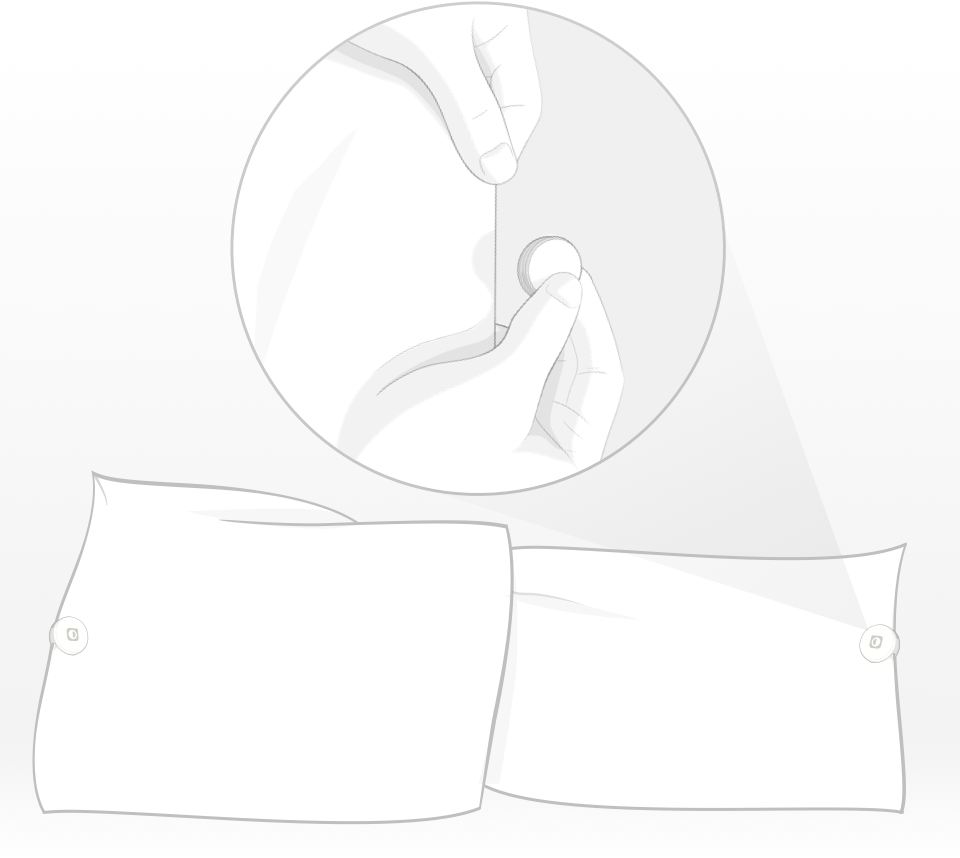
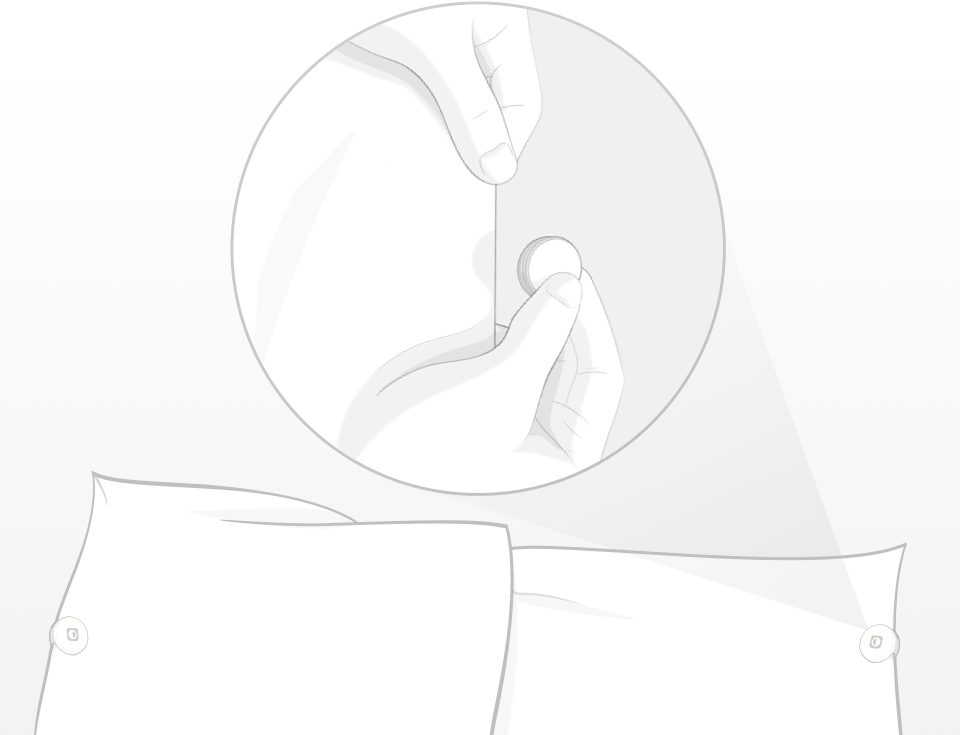
updated assets, no scroll on large screens.  no iphone 4s / 5 ifs

diff --git a/SleepModel/HEMPillSetupViewController.m b/SleepModel/HEMPillSetupViewController.m
@@ -30,7 +30,6 @@ typedef NS_ENUM(NSUInteger, HEMPillSetupRow) {
     HEMPillSetupRows = 3
 };
 
-static CGFloat const HEMPillSetupImageCellHeight = 398.0f;
 static CGFloat const HEMPillSetupTextHorzPadding = 20.0f;
 static CGFloat const HEMPillSetupLayoutMinLineSpacing = 8.0f;
 
@@ -42,6 +41,9 @@ static CGFloat const HEMPillSetupLayoutMinLineSpacing = 8.0f;
 
 @property (strong, nonatomic) NSAttributedString* attributedTitle;
 @property (strong, nonatomic) NSAttributedString* attributedDescription;
+@property (assign, nonatomic) CGFloat titleHeight;
+@property (assign, nonatomic) CGFloat descriptionHeight;
+@property (assign, nonatomic) CGFloat imageHeight;
 @property (assign, nonatomic, getter=isWaitingForLED) BOOL waitingForLED;
 
 @end
@@ -68,6 +70,36 @@ static CGFloat const HEMPillSetupLayoutMinLineSpacing = 8.0f;
     [containerLayer setShadowOffset:[shadow shadowOffset]];
     [containerLayer setShadowRadius:[shadow shadowBlurRadius]];
     [containerLayer setShadowOpacity:1.0f];
+}
+
+- (void)calculateHeights {
+    NSAttributedString* title = [self attributedTitle];
+    [self setTitleHeight:[self heightForAttributedText:title]];
+    
+    NSAttributedString* desc = [self attributedDecription];
+    [self setDescriptionHeight:[self heightForAttributedText:desc]];
+    
+    CGFloat contentHeight =
+        [self titleHeight]
+        + HEMPillSetupLayoutMinLineSpacing
+        + [self descriptionHeight]
+        + HEMPillSetupLayoutMinLineSpacing;
+    
+    UIImage* image = [HelloStyleKit pillSetup];
+    CGFloat imageHeight = CGRectGetHeight([[self collectionView] bounds]) - contentHeight;
+    [self setImageHeight:MAX(image.size.height, imageHeight)];
+}
+
+- (CGFloat)heightForAttributedText:(NSAttributedString*)attributedText {
+    UICollectionViewFlowLayout* layout = (id)[[self collectionView] collectionViewLayout];
+    CGFloat itemWidth = [layout itemSize].width;
+    
+    CGSize constraint = CGSizeZero;
+    constraint.width = itemWidth - (HEMPillSetupTextHorzPadding*2);
+    constraint.height = MAXFLOAT;
+    NSStringDrawingOptions options = NSStringDrawingUsesFontLeading|NSStringDrawingUsesLineFragmentOrigin;
+    CGRect textFrame = [attributedText boundingRectWithSize:constraint options:options context:nil];
+    return ceilf(CGRectGetHeight(textFrame));
 }
 
 - (NSAttributedString*)attributedTitle {
@@ -98,6 +130,13 @@ static CGFloat const HEMPillSetupLayoutMinLineSpacing = 8.0f;
     UICollectionViewFlowLayout* layout = (id)[[self collectionView] collectionViewLayout];
     [layout setMinimumLineSpacing:HEMPillSetupLayoutMinLineSpacing];
     [layout setItemSize:CGSizeMake(CGRectGetWidth([[self collectionView] bounds]), 0.0f)];
+    
+    CGFloat contentHeight = [[self collectionView] contentSize].height;
+    CGFloat viewHeight = CGRectGetHeight([[self collectionView] bounds]);
+    BOOL scroll = contentHeight - HEMPillSetupLayoutMinLineSpacing > viewHeight;
+    [[self collectionView] setScrollEnabled:scroll];
+
+    [self calculateHeights];
 }
 
 #pragma mark - UICollectionViewDataSource / Delegate
@@ -162,28 +201,13 @@ static CGFloat const HEMPillSetupLayoutMinLineSpacing = 8.0f;
     
     switch (row) {
         case HEMPillSetupRowTitle:
-        case HEMPillSetupRowDescription: {
-            NSAttributedString* attributedText = nil;
-            
-            if (row == HEMPillSetupRowTitle) {
-                attributedText = [self attributedTitle];
-            } else {
-                attributedText = [self attributedDecription];
-            }
-            
-            CGSize constraint = CGSizeZero;
-            constraint.width = itemSize.width - (HEMPillSetupTextHorzPadding*2);
-            constraint.height = MAXFLOAT;
-            NSStringDrawingOptions options = NSStringDrawingUsesFontLeading|NSStringDrawingUsesLineFragmentOrigin;
-            CGRect textFrame = [attributedText boundingRectWithSize:constraint options:options context:nil];
-            itemSize.height = ceilf(CGRectGetHeight(textFrame));
+            itemSize.height = [self titleHeight];
             break;
-        }
+        case HEMPillSetupRowDescription:
+            itemSize.height = [self descriptionHeight];
+            break;
         case HEMPillSetupRowImage:
-            itemSize.height = HEMPillSetupImageCellHeight;
-            if ([self isIPhone4Family] || [self isIPhone5Family]) {
-                itemSize.height -= 100.0f;
-            }
+            itemSize.height = [self imageHeight];
             break;
         default:
             break;
